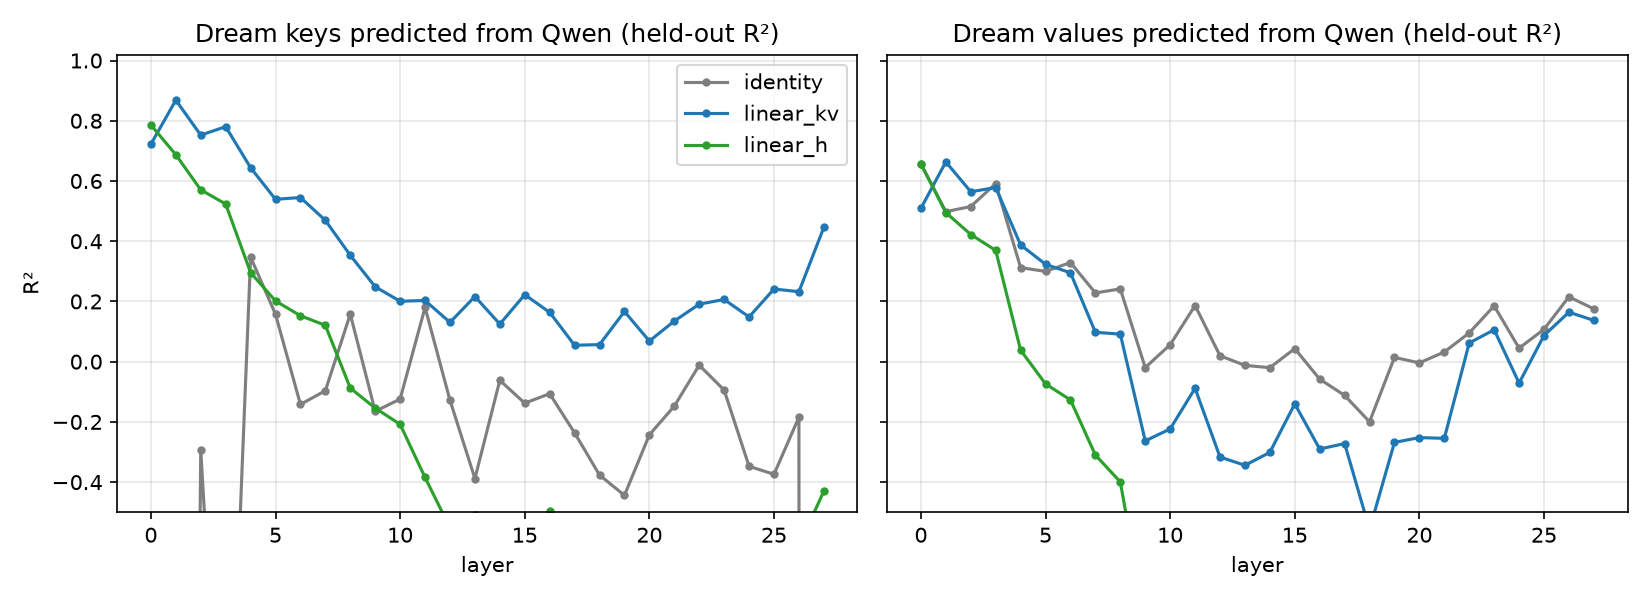
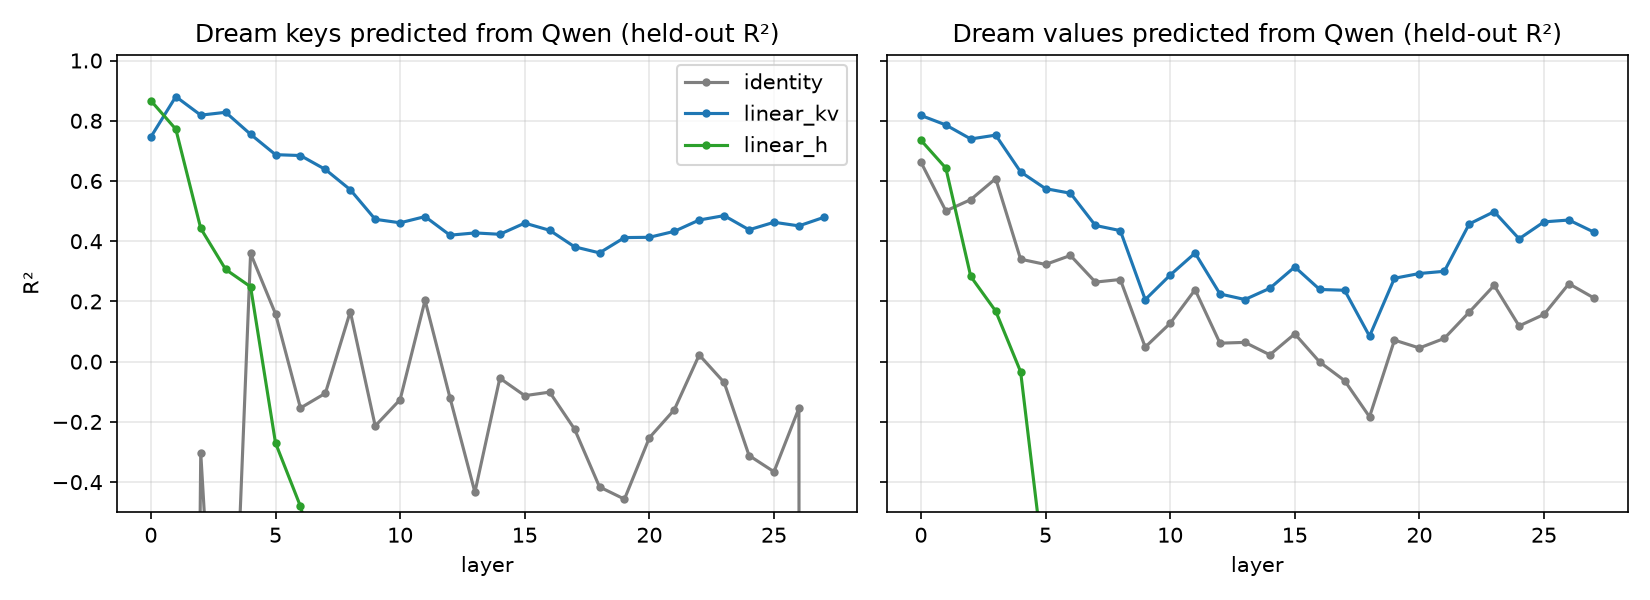
linmap: streaming validation (VRAM overflow -> system RAM spill killed the run twice), memory guards at stage boundaries

diff --git a/linmap/fit_and_eval.py b/linmap/fit_and_eval.py
@@ -86,25 +86,33 @@ def map_kv(kind, i, Qi):
     if kind == "linear_kv": return aug(Qi[0]) @ W[("kv_k", i)], aug(Qi[1]) @ W[("kv_v", i)]
     Y = aug(Qi[2]) @ W[("h", i)]; return Y[:, :512], Y[:, 512:]
 kinds = ["identity", "linear_kv"] + ([] if a.no_hidden else ["linear_h"])
-# R^2 on unseen sequences (held-out indices 100.., so the 32-sequence eval set stays untouched by anything but eval)
-sse = {(kd, kv, i): 0.0 for kd in kinds for kv in "kv" for i in range(NL)}; sst = {(kv, i): 0.0 for kv in "kv" for i in range(NL)}
-cosv = {(kd, kv, i): [] for kd in kinds for kv in "kv" for i in range(NL)}
-ysum = {}; ycnt = 0; val = []
+# R^2 on unseen sequences (held-out indices 100.., so the 32-sequence eval set stays untouched by anything but eval).
+# STREAMING: holding 24 sequences of captures on the GPU (7.2 GiB incl. Qwen's 3584-d hidden states) overflowed VRAM, the xe driver
+# spilled into system RAM, and the job was OOM-killed twice (2026-09-20). Accumulate sums only.
+def memlog(tag):
+    free = torch.xpu.mem_get_info()[0] / 2**30; print(f"[mem] {tag}: torch alloc {gib(torch.xpu.memory_allocated())} GiB, device free {free:.2f} GiB", flush=True)
+    assert free > 0.8, f"VRAM guard: only {free:.2f} GiB free at {tag}"
+memlog("after fit")
+sse = {(kd, kv, i): 0.0 for kd in kinds for kv in "kv" for i in range(NL)}; cosv = {(kd, kv, i): 0.0 for kd in kinds for kv in "kv" for i in range(NL)}
+sumY = {(kv, i): 0.0 for kv in "kv" for i in range(NL)}; sumY2 = {(kv, i): 0.0 for kv in "kv" for i in range(NL)}; nval = 0
 for n in range(a.val_seqs):
-    seq = held[100 + n].astype(np.int64); ctx = seq[:512].tolist(); val.append((run_dream_ctx(ctx), run_qwen(ctx)))
-for kv_i, kv in enumerate("kv"):
+    seq = held[100 + n].astype(np.int64); ctx = seq[:512].tolist(); Dv, Qv = run_dream_ctx(ctx), run_qwen(ctx); nval += len(ctx)
     for i in range(NL):
-        Yall = torch.cat([d[i][kv_i] for d, _ in val]); mu = Yall.mean(0, keepdim=True); sst[(kv, i)] = float(((Yall - mu) ** 2).sum())
-        for kd in kinds:
-            P = torch.cat([map_kv(kd, i, q[i])[kv_i] for _, q in val])
-            sse[(kd, kv, i)] = float(((Yall - P) ** 2).sum()); cosv[(kd, kv, i)] = float(F.cosine_similarity(Yall, P, dim=1).mean())
+        for kv_i, kv in enumerate("kv"):
+            Y = Dv[i][kv_i]; sumY[(kv, i)] = sumY[(kv, i)] + Y.sum(0).double().cpu(); sumY2[(kv, i)] += float((Y.double() ** 2).sum())
+            for kd in kinds:
+                P = map_kv(kd, i, Qv[i])[kv_i]
+                sse[(kd, kv, i)] += float(((Y - P).double() ** 2).sum()); cosv[(kd, kv, i)] += float(F.cosine_similarity(Y, P, dim=1).sum())
+    del Dv, Qv
+sst = {k: sumY2[k] - float((sumY[k] ** 2).sum()) / nval for k in sumY}
+for k in cosv: cosv[k] /= nval
+memlog("after validation")
 r2 = {kd: {kv: [1 - sse[(kd, kv, i)] / sst[(kv, i)] for i in range(NL)] for kv in "kv"} for kd in kinds}
 cos = {kd: {kv: [cosv[(kd, kv, i)] for i in range(NL)] for kv in "kv"} for kd in kinds}
 print("\nStage A: held-out R^2 of Dream's context K/V predicted from Qwen (pre-RoPE), by layer")
 print("layer | " + " | ".join(f"{kd}:K   {kd}:V " for kd in kinds))
 for i in range(NL): print(f"  {i:2d}  | " + " | ".join(f"{r2[kd]['k'][i]:7.3f} {r2[kd]['v'][i]:7.3f}" for kd in kinds))
 print(" mean | " + " | ".join(f"{np.mean(r2[kd]['k']):7.3f} {np.mean(r2[kd]['v']):7.3f}" for kd in kinds), flush=True)
-del val
 
 # ------------------------------------------------------------------ Stage B: functional test (concat into Dream's own attention)
 for l in dream.model.layers: l.kv_concat = True
@@ -146,6 +154,7 @@ for n in range(a.eval_seqs):
             lg = denoise_logits(seql[s - 1], blk, s, ext)
             tot[v] += float(F.cross_entropy(lg[m], tgt[m], reduction="sum")); agree[v] += int((lg.argmax(-1)[m] == aD[m]).sum())
         cnt += int(m.sum())
+    if n == 0: memlog("first eval sequence")
     if (n + 1) % 4 == 0: print(f"  eval {n+1}/{a.eval_seqs}: " + "  ".join(f"{v} {tot[v]/cnt:.3f}" for v in variants) + f"  D {tot['D_same_code']/cnt:.3f}  ({time.time()-t0:.0f}s)", flush=True)
 ref = json.load(open(REPO / "logs/phase3/32_reference_loss.json")); T0, Dref = ref["T0_untrained"], min(ref["D_full_context_bos0"], ref["D_full_context_bos1"])
 res = {"provenance": provenance(), "args": vars(a), "fit_tokens": n_tok, "r2": r2, "cos": cos,
